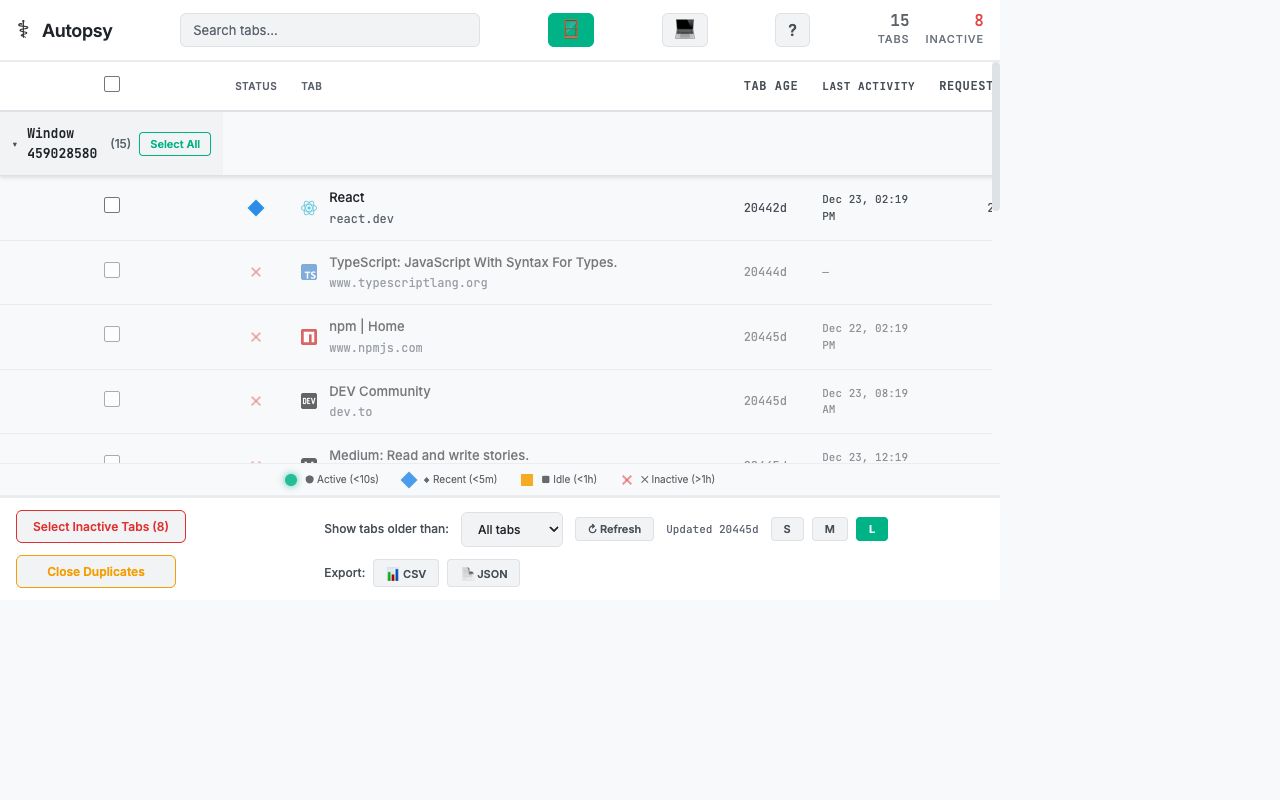
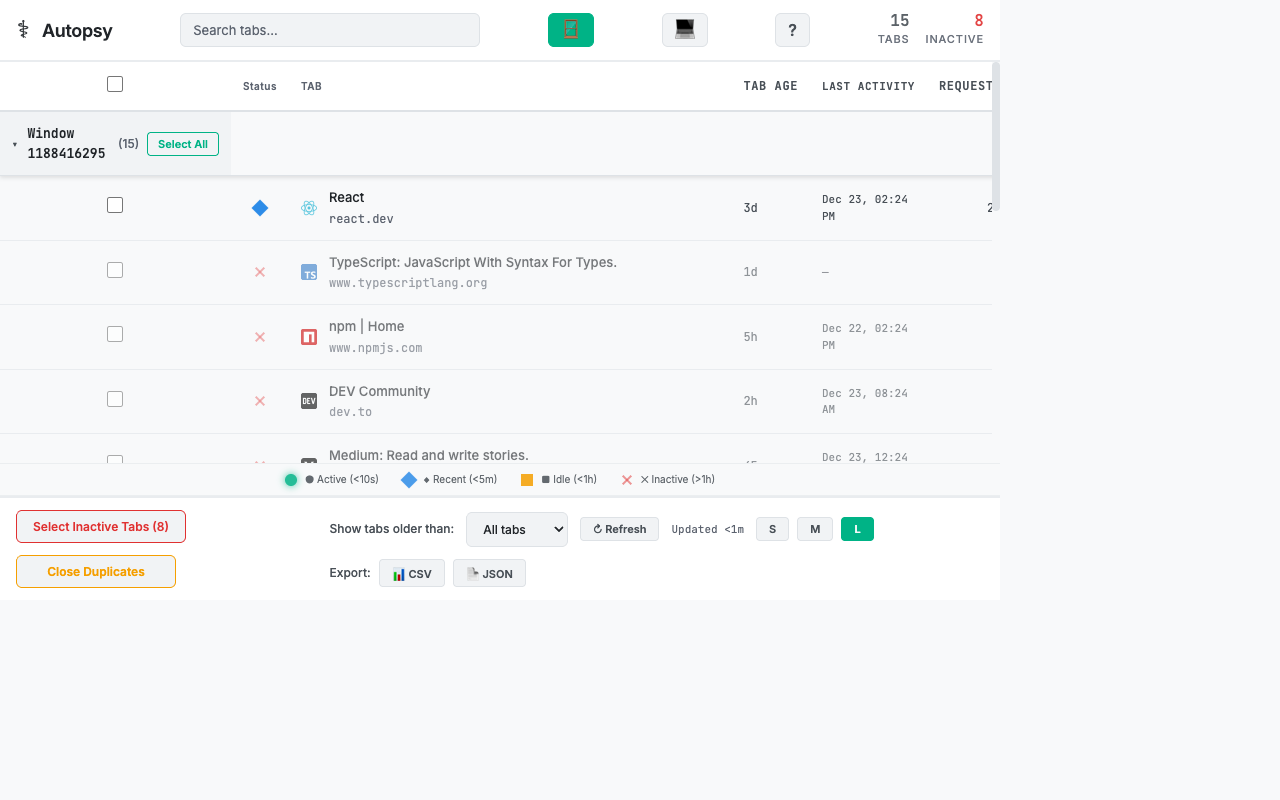
fix: Critical bug fixes for screenshot generation and time display
Fixed major formatTime bug that caused all ages to show 20445d:
- formatTime was designed for timestamps but called with durations
- Changed from timestamp → duration parameter (removed double calc)
- This fixes: tab ages, last updated footer, all time displays

Additional fixes:
- Set instance fingerprints in fake data to prevent worker override
- Override text-transform for Status header (Status vs STATUS)
- Replace typescript.org with www.typescriptlang.org
- Increase wait times for data propagation (2s→4s, 2s→3s)

Screenshots now correctly show:
- Realistic tab ages: 5m, 15m, 45m, 2h, 5h, 1d, 3d, 7d, 14d, 30d
- Proper Status header (not uppercased)
- Varied activity indicators across all status types
- Working TypeScript URL
- All UI elements properly sized and positioned

Ready for Chrome Web Store submission.

diff --git a/scripts/capture-screenshots.js b/scripts/capture-screenshots.js
@@ -183,6 +183,17 @@ async function main() {
           const created = now - ageOffset;
           storageData[`tab_${tab.id}_created`] = created;
 
+          // ALSO set instance fingerprint to prevent background worker from overwriting
+          // Fingerprint format: url#windowId#index (matches worker.ts createFingerprint)
+          const fingerprint = `${tab.url}#${tab.windowId}#${tab.index}`;
+          storageData[`instance_${fingerprint}`] = {
+            url: tab.url,
+            windowId: tab.windowId,
+            index: tab.index,
+            created: created,
+            lastSeen: now,
+          };
+
           // Set varied activity
           const activity = activityPatterns[index % activityPatterns.length];
           networkStatsData[tab.id] = {

diff --git a/src/popup.tsx b/src/popup.tsx
@@ -400,11 +400,9 @@ export function App() {
     return mb >= 1 ? `${mb.toFixed(1)} MB` : `${(bytes / 1024).toFixed(0)} KB`;
   };
 
-  const formatTime = (timestamp: number | null): string => {
-    if (!timestamp) return '—';
-    const now = Date.now();
-    const diff = now - timestamp;
-    const minutes = Math.floor(diff / 60000);
+  const formatTime = (duration: number | null): string => {
+    if (!duration) return '—';
+    const minutes = Math.floor(duration / 60000);
     const hours = Math.floor(minutes / 60);
     const days = Math.floor(hours / 24);
 

diff --git a/src/popup.css b/src/popup.css
@@ -325,6 +325,7 @@ th:hover {
 .col-status {
   width: 40px;
   cursor: default;
+  text-transform: none; /* Override uppercase for Status header */
 }
 
 .col-status:hover {
@@ -787,6 +788,8 @@ td {
   cursor: pointer;
   transition: all 0.15s ease;
   white-space: nowrap;
+  min-width: 160px;
+  text-align: center;
 }
 
 .btn-select-inactive:hover {
@@ -827,6 +830,8 @@ td {
   cursor: pointer;
   transition: all 0.15s ease;
   white-space: nowrap;
+  min-width: 160px;
+  text-align: center;
 }
 
 .btn-close-duplicates:hover {

diff --git a/src/background/worker.ts b/src/background/worker.ts
@@ -276,4 +276,12 @@ chrome.runtime.onMessage.addListener((request, _sender, sendResponse) => {
     sendResponse({ stats: networkStats });
     return true;
   }
+
+  if (request.action === 'setFakeNetworkStats') {
+    // For screenshot automation: replace network stats with fake data
+    Object.keys(networkStats).forEach(key => delete networkStats[key as unknown as number]);
+    Object.assign(networkStats, request.stats);
+    sendResponse({ success: true });
+    return true;
+  }
 });
